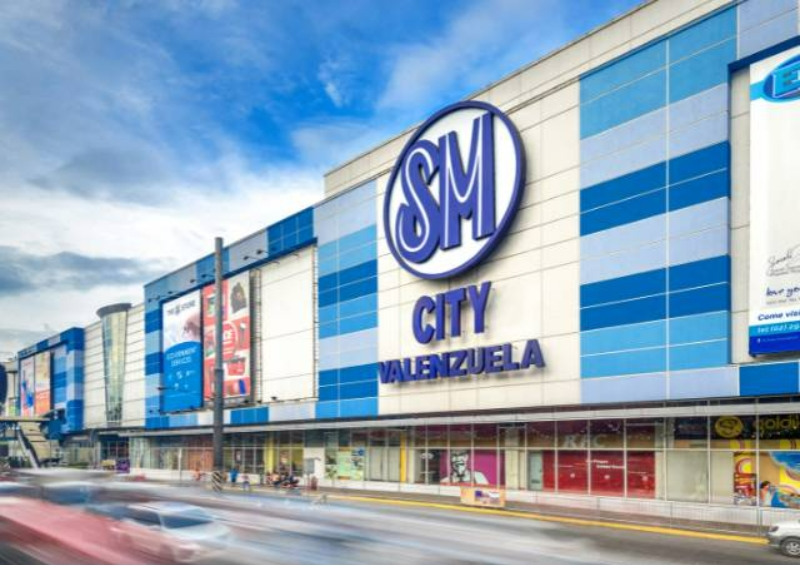
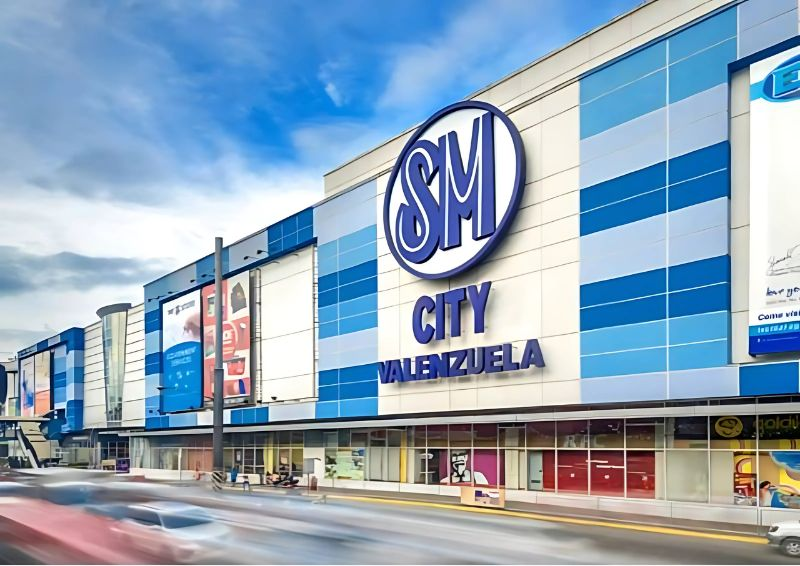
I changed the pictures in the branches

diff --git a/index.html b/index.html
@@ -179,21 +179,21 @@
                     </div>
                     <div class="carousel-inner">
                         <div class="carousel-item active d-flex justify-content-center align-items-center">
-                            <img src="img/branch2.jpg" class="d-block w-75" alt="First slide">
+                            <img src="img/Branch2.jpg"class="d-block w-75" alt="First slide">
                             <div class="carousel-caption d-none d-md-block">
                                 <h2 class="text-white text-bold">SM VALENZUELA</h2>
                                 <h6>SM City Valenzuela, SM Foodcourt located at Third Level</h6>
                             </div>
                         </div>
                         <div class="carousel-item d-flex justify-content-center align-items-center">
-                            <img src="img/branch1.png" class="d-block w-75" alt="First slide">
+                            <img src="img/Branch1.jpg" class="d-block w-75" alt="First slide">
                             <div class="carousel-caption d-none d-md-block">
                                 <h2 class="text-white text-bold">SM NORTH EDSA</h2>
                                 <h6>M24J+M8V, Bago Bantay, Quezon City, Metro Manila</h6>
                             </div>
                         </div>
                         <div class="carousel-item d-flex justify-content-center align-items-center">
-                            <img src="img/branch3.jpg" class="d-block w-75" alt="First slide">
+                            <img src="img/Branch3.jpg" class="d-block w-75" alt="First slide">
                             <div class="carousel-caption d-none d-md-block">
                                 <h2 class="text-white text-bold">ONE MALL VALENZUELA</h2>
                                 <h6>Level 2, One Mall Valenzuela Brgy, Gen. T. de Leon, Street, Valenzuela, 1442</h6>
